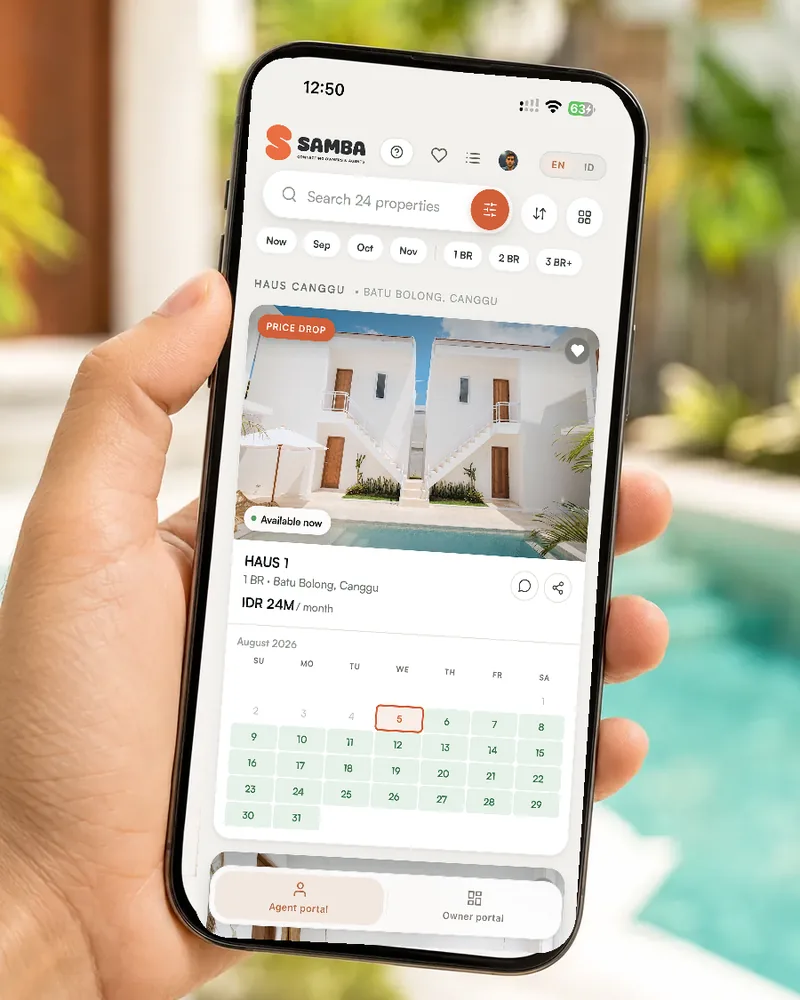
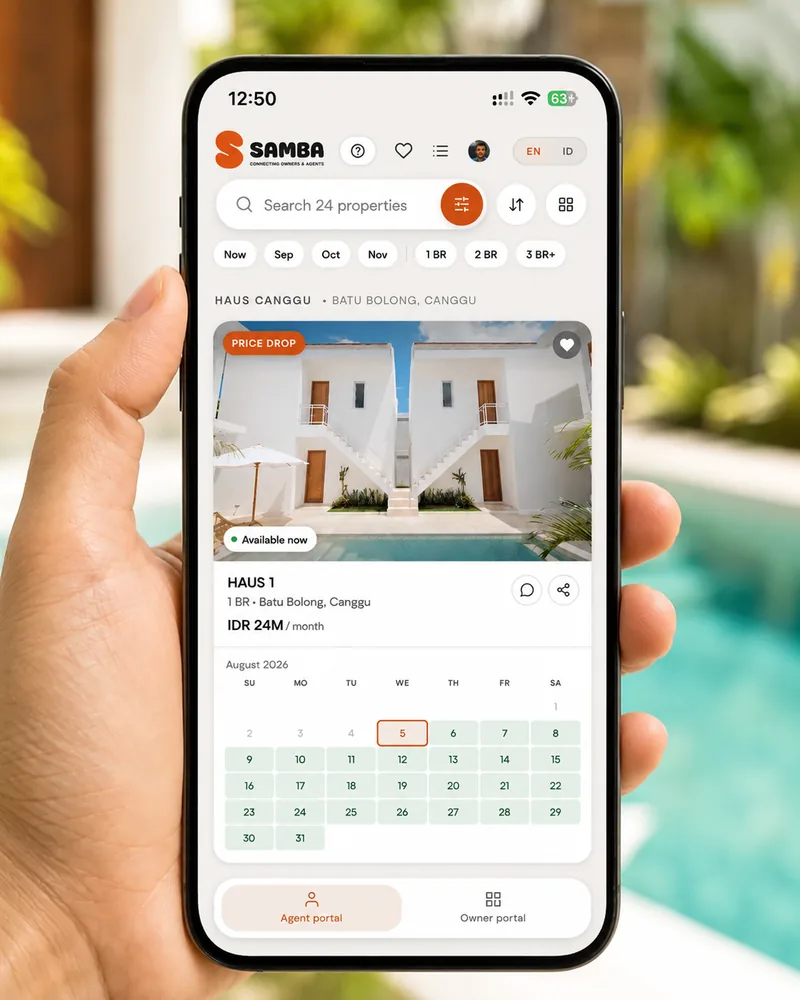
Align signed-out portal gate with the brand landing; new hero image
The gate keeps its lean sign-in job but now matches the campaign:
terracotta eyebrow (was ochre), founding-offer chip with the
FOUNDING25 code above the sign-in button, 300+ agent count, a
dashboard peek under the trust strip, and Maya-consistent footer
naming. Hero image on the owner page replaced with the regenerated
version (native screen render, no composite artifacts).

diff --git a/public/portal.html b/public/portal.html
@@ -33,7 +33,7 @@ body{font-family:'Satoshi',-apple-system,sans-serif;background:var(--bg);color:v
 .lp-cta{background:var(--accent);border:none;border-radius:8px;color:#fff;padding:9px 17px;font-family:'Satoshi',-apple-system,sans-serif;font-size:0.8rem;font-weight:500;cursor:pointer;transition:opacity .2s;white-space:nowrap;}
 .lp-cta:hover{opacity:.9;}
 .lp-hero{text-align:center;padding:104px 24px 58px;max-width:680px;margin:0 auto;background:radial-gradient(ellipse 75% 55% at 50% 0%,rgba(226,87,43,0.08) 0%,transparent 70%);}
-.lp-eyebrow{font-size:0.72rem;letter-spacing:0.16em;text-transform:uppercase;color:var(--yellow);margin-bottom:18px;}
+.lp-eyebrow{font-size:0.72rem;font-weight:600;letter-spacing:0.16em;text-transform:uppercase;color:var(--accent);margin-bottom:18px;}
 .lp-h1{font-family:'Satoshi',-apple-system,sans-serif;font-size:2.8rem;line-height:1.08;margin-bottom:20px;}
 .lp-sub{font-size:1.04rem;color:var(--muted);line-height:1.6;max-width:600px;margin:0 auto 30px;}
 #gbtn{display:flex;justify-content:center;min-height:44px;}
@@ -160,6 +160,10 @@ a.btn-sm{text-decoration:none;display:inline-flex;align-items:center;gap:4px;}
 .ical-help[open] summary{margin-bottom:6px;}
 .ical-help div{background:var(--surface2);border-radius:8px;padding:10px 12px;line-height:1.7;}
 .lp-demo{display:block;margin:14px auto 0;background:none;border:none;color:var(--accent);font-family:inherit;font-size:.86rem;font-weight:600;cursor:pointer;text-decoration:underline;text-underline-offset:3px;}
+.lp-founding{display:inline-flex;align-items:center;gap:10px;flex-wrap:wrap;justify-content:center;background:var(--surface);border:1px solid var(--sb-terracotta-100);border-radius:999px;padding:7px 14px 7px 8px;margin:0 auto 28px;font-size:.85rem;color:var(--sb-gray-700);box-shadow:var(--sb-shadow-xs)}
+.lp-code{font-weight:900;letter-spacing:.06em;color:var(--sb-terracotta-700);background:var(--sb-terracotta-050);border:1.5px dashed var(--sb-terracotta);border-radius:8px;padding:3px 10px;font-size:.8rem}
+.lp-peek{max-width:660px;margin:36px auto 0;padding:0 24px}
+.lp-peek img{display:block;width:100%;height:auto;border-radius:20px;border:1px solid var(--border);box-shadow:var(--sb-shadow-sm)}
 .demo-banner{display:flex;align-items:center;gap:12px;background:var(--surface2);border:1px solid var(--border);border-radius:12px;padding:12px 16px;margin-bottom:18px;font-size:.86rem;color:var(--text-2);}
 .demo-banner button{margin-left:auto;flex-shrink:0;background:var(--accent);border:none;border-radius:8px;color:#fff;font-family:inherit;font-size:.8rem;font-weight:600;padding:8px 14px;cursor:pointer;}
 .fg .hint{font-size:0.66rem;color:var(--muted);text-transform:none;letter-spacing:0;margin-top:5px;}
@@ -371,6 +375,7 @@ body.wiz-open #snav-tabs{display:none !important;}
     <div class="lp-eyebrow">Owner portal</div>
     <h1 class="lp-h1">Sign in to list your villa.</h1>
     <p class="lp-sub">Add your villa, manage your listings, and track agent interest, all in one place. IDR 150,000/month per villa (billed as US$9.50), cancel anytime.</p>
+    <div class="lp-founding"><span class="sb-pill sb-pill--accent">FOUNDING 25</span> The first 25 villas list free <span class="lp-code">FOUNDING25</span></div>
     <div id="gbtn"></div>
     <div class="login-err" id="login-err"></div>
     <div class="lp-hero-note">New here? Signing in with Google creates your owner account automatically.</div>
@@ -378,9 +383,13 @@ body.wiz-open #snav-tabs{display:none !important;}
   </header>
 
   <div class="lp-trust">
-    <span><b>250+</b>rental agents</span>
+    <span><b>300+</b>rental agents</span>
     <span><b>Canggu · Pererenan · Bali</b></span>
     <span><b>IDR 150k</b>/ month per villa</span>
+  </div>
+
+  <div class="lp-peek">
+    <img src="/img-pillar-visibility.webp" alt="The Samba owner dashboard showing agent views, shares and enquiries" width="900" height="507" loading="lazy">
   </div>
 
   <div class="lp-newhere">
@@ -388,7 +397,7 @@ body.wiz-open #snav-tabs{display:none !important;}
   </div>
 
   <footer class="lp-footer">
-    <div>Not ready to sign up? <a href="/list-property">Submit a property via WhatsApp →</a></div>
+    <div>Prefer WhatsApp? <a href="/list-property">List with Maya →</a></div>
     <div><a href="/terms">Terms</a> · <a href="/privacy">Privacy</a> · <a href="/refund">Refunds</a></div>
     <div>© 2026 Samba Rentals · Bali, Indonesia</div>
   </footer>
